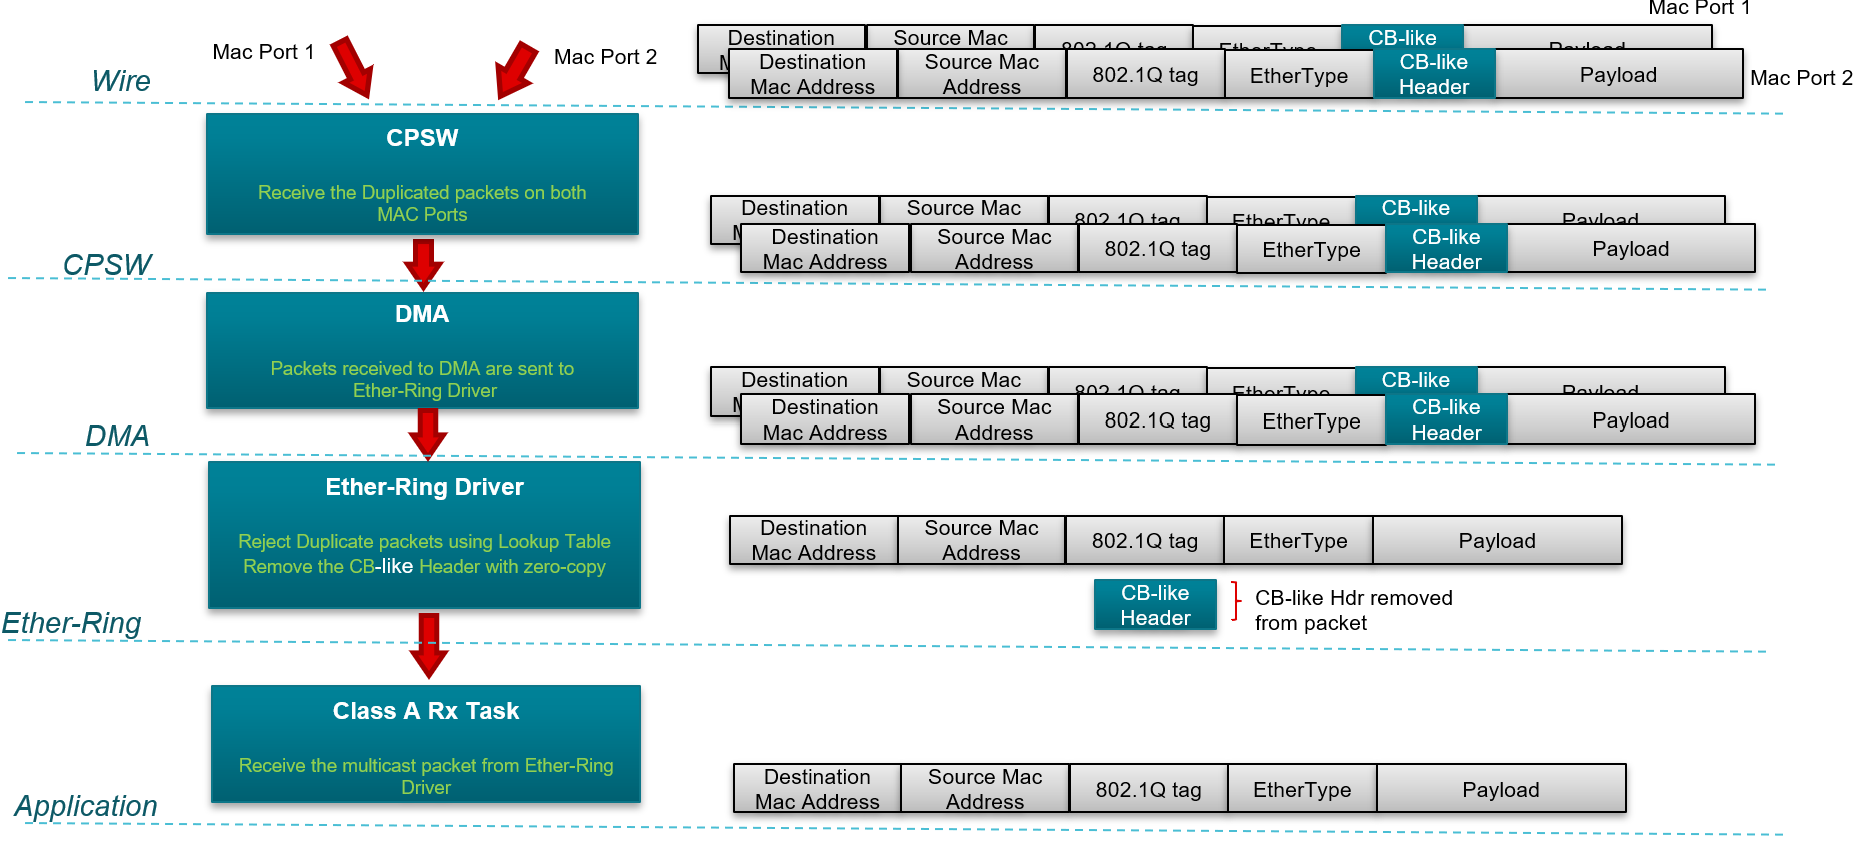
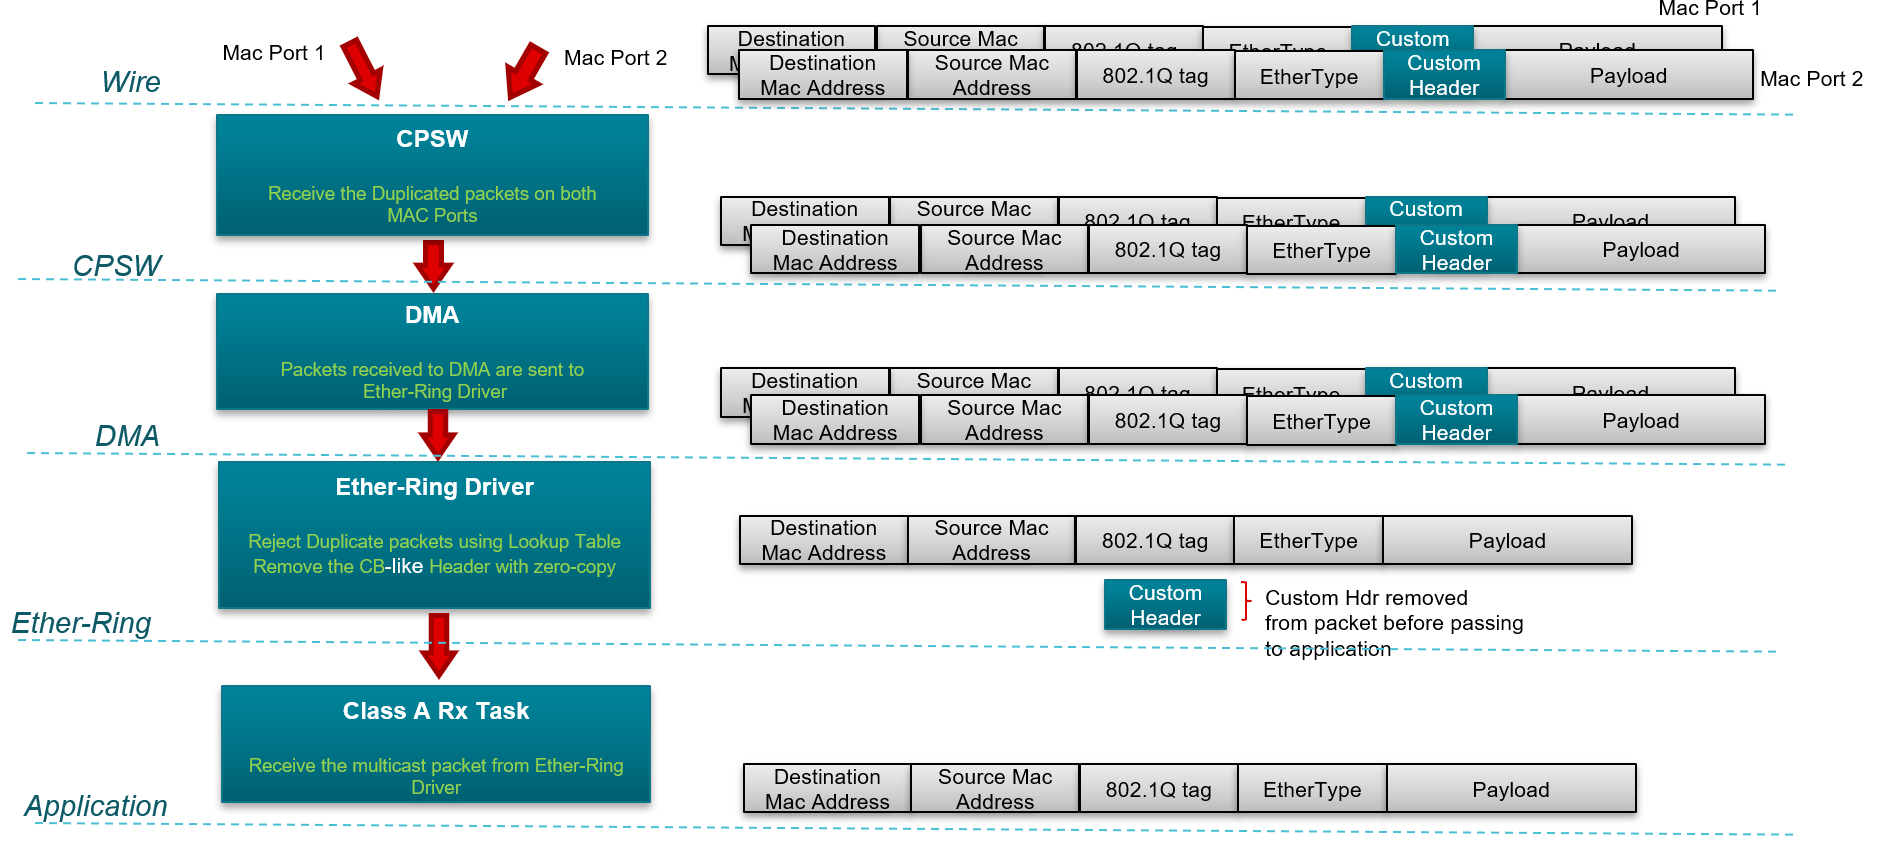
enet: am263x/am263px: Update Etherring rejection logic and example
- fix etherring duplication logic with window based rejection
- add genf ppm correction logic based on gptp corrections
- update etherring tsn example to integrate genf with est basetime

Fixes: MCUSDK-15494

diff --git a/source/networking/enet/soc/am261x/enet_soc_cfg.h b/source/networking/enet/soc/am261x/enet_soc_cfg.h
@@ -152,6 +152,11 @@ extern "C" {
 /*! \brief Number of CPSW ESTFn modules */
 #define ENET_CFG_CPSW_ESTF_NUM                      (CPSW_STATS_MACPORT_MAX)
 
+/*! \brief Number of CPSW GENn modules */
+#define ENET_CFG_CPSW_GENF_NUM                      (2U)
+
+/*! \brief Number of CPSW Hardware push events */
+#define ENET_CFG_CPSW_HWPUSH_NUM                    (8U)
 /* ========================================================================== */
 /*                         Structures and Enums                               */
 /* ========================================================================== */

diff --git a/source/networking/enet/soc/am263px/enet_soc_cfg.h b/source/networking/enet/soc/am263px/enet_soc_cfg.h
@@ -152,6 +152,11 @@ extern "C" {
 /*! \brief Number of CPSW ESTFn modules */
 #define ENET_CFG_CPSW_ESTF_NUM                      (CPSW_STATS_MACPORT_MAX)
 
+/*! \brief Number of CPSW GENn modules */
+#define ENET_CFG_CPSW_GENF_NUM                      (2U)
+
+/*! \brief Number of CPSW Hardware push events */
+#define ENET_CFG_CPSW_HWPUSH_NUM                    (8U)
 /* ========================================================================== */
 /*                         Structures and Enums                               */
 /* ========================================================================== */

diff --git a/source/networking/enet/soc/am263x/enet_soc_cfg.h b/source/networking/enet/soc/am263x/enet_soc_cfg.h
@@ -153,6 +153,11 @@ extern "C" {
 /*! \brief Number of CPSW ESTFn modules */
 #define ENET_CFG_CPSW_ESTF_NUM                      (CPSW_STATS_MACPORT_MAX)
 
+/*! \brief Number of CPSW GENn modules */
+#define ENET_CFG_CPSW_GENF_NUM                      (2U)
+
+/*! \brief Number of CPSW Hardware push events */
+#define ENET_CFG_CPSW_HWPUSH_NUM                    (8U)
 /* ========================================================================== */
 /*                         Structures and Enums                               */
 /* ========================================================================== */

diff --git a/source/networking/enet/soc/am273x/enet_soc_cfg.h b/source/networking/enet/soc/am273x/enet_soc_cfg.h
@@ -154,6 +154,11 @@ extern "C" {
 /*! \brief Number of CPSW ESTFn modules */
 #define ENET_CFG_CPSW_ESTF_NUM                      (CPSW_STATS_MACPORT_MAX)
 
+/*! \brief Number of CPSW GENn modules */
+#define ENET_CFG_CPSW_GENF_NUM                      (1U)
+
+/*! \brief Number of CPSW Hardware push events */
+#define ENET_CFG_CPSW_HWPUSH_NUM                    (8U)
 /* ========================================================================== */
 /*                         Structures and Enums                               */
 /* ========================================================================== */

diff --git a/source/networking/enet/soc/awr294x/enet_soc_cfg.h b/source/networking/enet/soc/awr294x/enet_soc_cfg.h
@@ -151,6 +151,11 @@ extern "C" {
 /*! \brief Number of CPSW ESTFn modules */
 #define ENET_CFG_CPSW_ESTF_NUM                      (CPSW_STATS_MACPORT_MAX)
 
+/*! \brief Number of CPSW GENn modules */
+#define ENET_CFG_CPSW_GENF_NUM                      (1U)
+
+/*! \brief Number of CPSW Hardware push events */
+#define ENET_CFG_CPSW_HWPUSH_NUM                    (8U)
 /* ========================================================================== */
 /*                         Structures and Enums                               */
 /* ========================================================================== */

diff --git a/source/networking/enet/soc/k3/am64x_am243x/enet_soc_cfg.h b/source/networking/enet/soc/k3/am64x_am243x/enet_soc_cfg.h
@@ -160,6 +160,11 @@ extern "C" {
 /*! \brief Number of CPSW ESTFn modules */
 #define ENET_CFG_CPSW_ESTF_NUM                      (CPSW_STATS_MACPORT_MAX)
 
+/*! \brief Number of CPSW GENn modules */
+#define ENET_CFG_CPSW_GENF_NUM                      (2U)
+
+/*! \brief Number of CPSW Hardware push events */
+#define ENET_CFG_CPSW_HWPUSH_NUM                    (8U)
 /* ========================================================================== */
 /*                         Structures and Enums                               */
 /* ========================================================================== */

diff --git a/source/networking/enet/hw_include/cpts/csl_cpts.c b/source/networking/enet/hw_include/cpts/csl_cpts.c
@@ -47,7 +47,7 @@
 #define CSL_CPTS_NUM_TS_GENF    (1U)
 #define CSL_CPTS_NUM_TS_ESTF    (1U)
 #elif defined(SOC_AM263X) || defined (SOC_AM263PX) || defined(SOC_AM261X)
-#define CSL_CPTS_NUM_TS_GENF    (1U)
+#define CSL_CPTS_NUM_TS_GENF    (2U)
 #define CSL_CPTS_NUM_TS_ESTF    (2U)
 #else
 #define CSL_CPTS_NUM_TS_GENF    (sizeof(pCptsRegs->TS_GENF) / sizeof(CSL_cptsRegs_TS_GENF))

diff --git a/docs_src/docs/api_guide/examples/networking/enet_cpsw_etherring.md b/docs_src/docs/api_guide/examples/networking/enet_cpsw_etherring.md
@@ -5,17 +5,15 @@
 # Introduction
 This example application illustrates the configuration and usage of Ether-Ring topology with 4 nodes connected in loop where each node works as central compute, zone left,
 zone right and zone tail.
-The example application enables both MAC ports by default and each node is connected to it's neighbouring node in a loop. This application uses Concurrence execution of gPTP IEEE 802.1AS stack and IEEE 802.1 Qbv (EST) configuration and Ether-ring (‘802.1CB-like’) to support Packet Duplication, Ring Termination in Hardware and Duplicate Rejection in Software.
+The example application enables both MAC ports by default and each node is connected to it's neighbouring node in a loop. This application uses Concurrence execution of gPTP IEEE 802.1AS stack and IEEE 802.1 Qbv (EST) configuration and Ether-ring to support Packet Duplication, Ring Termination in Hardware and Duplicate Rejection in Software.
 
 The example application opens two DMA TX channels and two DMA RX channels.  The TX0 and RX0 DMA channel will be used by the application to send the Class-A and Class-D stream packets via Ether-Ring Driver. The TX0 and RX0 DMA channel will be used for GPTP.
 
 The application will also open the both MAC port and will wait until the port gets
 link up with neighbouring node. The application waits for GPTP synchronization to happen and then applies the EST Schedule on both MAC ports. 
-
 The application uses \ref ENET_MOD_TAS API for EST configuration ,\ref ENET_CPSW_TSN_GPTP for gPTP and \ref ENET_DMA_API
-API for packet transmission.
 
-\note This application only provides the Etherring Functionality. But the Performance will be acheived in further releases.
+API for packet transmission.
 
 # Ether-Ring overview
 Please refer **[here](\ref ETHERRING_OVERVIEW)** for Ether-Ring overview
@@ -26,7 +24,7 @@ Typically, the application's parameters that a developer may want to change are:
 
 - **Number of Nodes**.  By default the example application configures the etherring for 4 Nodes,
 but the user can choose to update the number of nodes in etherring using
-  `MAX_NODES_IN_LOOP = 4` in `config.h`.
+  `NODES_COUNT_IN_ETHERRING = 4` in `config.h`.
 - **Number of Class A Streams**.  By default the number of Class A Streams are configured as 1 for each Node.
 User can update the configuration bye changes `NUM_CLASSA_STREAMS` in `config.h`.
 - **Class A Payload Length**.  Class A payload length is configured as 1000 be default and user can update
@@ -42,7 +40,7 @@ User can update the configuration bye changes `NUM_CLASSA_STREAMS` in `config.h`
 
 The Application creates Class-A, Class-D stream RTOS tasks which creates the 802.1Q Ethernet Multicast packet with 
 stream configuration and calls "EtherRing_submitTxPktQ" API from Ether-Ring Driver. "EtherRing_submitTxPktQ" creates a custom 
-802.1 CB-like header(4 bytes) which consists of CB-like Ethertype(0xF1C1), unique sequence ID for each Ethernet packet and adds the CB-like Header to the packet sent from application without modifying the payload using zero-copy (using Transmit Scatter-Gather feature of HW). The packet is submitted to DMA and CPSW duplicates the multicast packet and sent it to both MAC ports.
+Custom header(4 bytes) which consists of CB-like Ethertype(0x88B5), unique sequence ID for each Ethernet packet and adds the custom Header to the packet sent from application without modifying the payload using zero-copy (using Transmit Scatter-Gather feature of HW). The packet is submitted to DMA and CPSW duplicates the multicast packet and sent it to both MAC ports.
 
   \image html etherring_tx.png Ether-Ring Transmit Flow  width=60%
 
@@ -90,6 +88,77 @@ hostPortCfg->rxVlanRemapEn     = true;
 hostPortCfg->rxDscpIPv4RemapEn = true;
 hostPortCfg->rxDscpIPv6RemapEn = true;
 \endcode
+
+## Application Startup Flow - EST, GENF, and Traffic Generation
+
+The application follows a coordinated startup sequence using GPTP synchronization, EST scheduling, and hardware pulse generation:
+
+### Phase 1: Initialization & GPTP Synchronization
+All nodes initialize networking stack and wait for GPTP (802.1AS) clock synchronization:
+- GPTP daemon exchanges timing messages across ring topology
+- Nodes transition through states: INITIALIZING → SYNCING → LOCKED
+- Once synchronized, all nodes share common wall-clock time reference
+
+### Phase 2: EST Gate Scheduling (gBaseTime Reference)
+After GPTP reaches LOCKED state, the EST schedule is applied:
+- EST gate control lists applied on both CPSW MAC ports
+- Gates scheduled starting at `gBaseTime` (default: 30,000,000,000 ns = 30 seconds)
+- Gate windows define when each priority queue (Class A, Class D, Best Effort) can transmit
+- All nodes' gates open/close at same wall-clock time due to GPTP synchronization
+- See EST schedule table above for gate mask timing (125μs intervals)
+
+### Phase 3: GENF0 Enable (Immediate)
+- GENF0 (General Function 0) configured for 50MHz reference pulse (4 clocks = 80ns)
+- Starts immediately after EST configuration
+- Provides general timing reference used by EST for gate transition synchronization
+
+### Phase 4: GENF1 Enable (gBaseTime - 20μs)
+- GENF1 (General Function 1) configured for 125μs pulse interval (25000*2 clocks)
+- **Starts 20 microseconds BEFORE gBaseTime** to pre-trigger traffic generation
+- **Reason**: Allows packet preparation and transmission to complete before EST gate closes
+- Ensures packets meet scheduled transmission deadline and gate window efficiency
+- Generates periodic pulses that trigger stream task wake-ups
+
+### Phase 5: RTI Timer & Periodic Traffic Generation
+- Real-Time Interrupt (RTI) timer created with GENF1 pulse as clock source
+- GENF1 interrupt fires every 125μs → wakes stream generation tasks
+- Stream tasks for each enabled stream:
+  - Allocate packets from free queue
+  - Fill packet with StreamId (sequence number at offset 30 bytes) + payload
+  - Submit to CPSW TX queue (respects EST gate status)
+  - **Class A streams**: up to 1000 packets per test cycle
+  - **Class D streams**: up to 125 packets per test cycle (lower priority, reduced load)
+
+### Phase 6: RX Processing & EtherRing Duplicate Detection
+- RX task collects arriving packets from network
+- EtherRing module performs sequence-based duplicate detection:
+  - Tracks StreamId (sequence number) in 64-packet sliding window per stream
+  - **Rejects exact duplicates** from ring redundancy artifacts
+  - **Accepts out-of-order packets** within history window
+- RX timestamps stored for jitter and latency analysis
+- Final output prints RX/TX packet counts and latency statistics
+
+### Application Startup Sequence
+
+<CENTER>
+<table>
+<caption>Startup Phase Timeline</caption>
+<tr><th>Phase <th>Timing <th>Event Description
+<tr><td>1 <td>t=0 <td>GPTP Synchronization begins
+<tr><td>1 <td>t=~3s <td>GPTP reaches LOCKED state (all nodes synchronized)
+<tr><td>2 <td>t=~5s <td>EST gate control lists applied to both MAC ports
+<tr><td>2 <td>t=~5s <td>EST schedule reference set to gBaseTime (30,000,000,000 ns)
+<tr><td>3 <td>t=~5s <td>GENF0 enabled (50MHz, immediate operation)
+<tr><td>4 <td>t=(gBaseTime - 20μs) <td>GENF1 enabled (125μs pulse interval begins)
+<tr><td>4 <td>t=(gBaseTime - 20μs) <td>RTI Timer created with GENF1 as clock source
+<tr><td>5 <td>t=(gBaseTime - 20μs) <td>Stream TX tasks begin execution
+<tr><td>5 <td>t=gBaseTime <td>EST gates OPEN for Class A and Class D queues
+<tr><td>5 <td>t=gBaseTime + 20μs <td>Packets transmitted within EST gate window
+<tr><td>5 <td>t=(gBaseTime + interval) <td>EST gates CLOSE, packets complete transmission
+<tr><td>6 <td>Continuous <td>RX task receives packets and performs EtherRing deduplication
+<tr><td>6 <td>Continuous <td>Timestamps logged for latency and jitter analysis
+</table>
+</CENTER>
 
 ## RX Host Time stamping
 RX Host time stamping is enabled from syscfg to measure the jitter in latency for the Received packets and 
@@ -366,6 +435,8 @@ INF:cbase:Successfully configure TAS
 WRN:gptp:000018-746101:md_pdelay_resp_sm_recv_req: port=2, expected SeqID=10723, but received=10724
 Starting the Stream Traffic
 RxTs and CurrentTs values stored
+
+----------ETHERRING DEMONSTRATION COMPLETED----------
 [RXTS]: 29954385101
 [RXTS]: 29954510117
 [RXTS]: 29954635123
@@ -381,18 +452,22 @@ RxTs and CurrentTs values stored
 [RXTS]: 29955885143
 [RXTS]: 29956010069
 [RXTS]: 29956135075
-[RXTS]: 29956260086
-[RXTS]: 29956385097
-[RXTS]: 29956510113
-[RXTS]: 29956635119
-[RXTS]: 29956760130
-[RXTS]: 29956885126
-[RXTS]: 29957010072
-[RXTS]: 29957135078
-
-
-
-----------ETHERRING DEMONSTRATION COMPLETED----------
+[LAT]: 31248385523
+[LAT]: 31248509968
+[LAT]: 31248635684
+[LAT]: 31248760014
+[LAT]: 31248885115
+[LAT]: 31249010280
+[LAT]: 31249185376
+[LAT]: 31249260041
+[LAT]: 31249385041
+[LAT]: 31249510402
+[LAT]: 31249675958
+[LAT]: 31249759993
+[LAT]: 31249885083
+[LAT]: 31250010974
+[RX] Packet Count of stream0: 30000 
+[TX] Packet Count of stream0: 30000 
 
 
 \endcode

diff --git a/docs_src/docs/api_guide/components/networking/enet_lld/etherring_overview.md b/docs_src/docs/api_guide/components/networking/enet_lld/etherring_overview.md
@@ -69,14 +69,23 @@ Ether-Ring functionality is achieved using hardware configuration with assistanc
 <div style="display: flex; align-items: center;">
     <div style="flex: 1; text-align: left; max-width: 65%;">
         <ul>
-            <li><strong>Custom Header Data</strong>: Ethernet packets contain custom header data to facilitate duplicate rejection.</li>
-            <li><strong>Look-up Table</strong>: The look-up table stores key with tuples of {Source Mac Address ,Sequence Number} and Entries denoting the count of packet received.</li>
-            <li><strong>Duplicate Rejection</strong>: Duplicate packets are rejected using look-up table Entries.</li>
-            <li><strong>Periodic Look-up table clearance</strong>: Look-up table entries are periodically cleared to receive original Ethernet packets in case of single point wire failure.</li>
+            <li><strong>Packet Detection Flow</strong>: SequenceID-based duplicate detection using per-node state tracking. Each node maintains last accepted sequence number and 64-bit history bitmap.</li>
+            <li><strong>Per-node State</strong>: Tracks recSeqNum (last accepted sequence), seqHistory (64-bit bitmap), and initialization flag for each data stream identified by MAC address.</li>
+            <li><strong>Five Detection Cases</strong>:
+                <ol>
+                    <li>In-Order/Future Packet (seqDiff > 0) - Accept and shift window forward</li>
+                    <li>Out-of-Order Within Window (seqDiff < 0) - Check bitmap for prior receipt</li>
+                    <li>Too Old/Beyond Window - Reject as stale duplicate</li>
+                    <li>Exact Duplicate (seqDiff = 0) - Reject immediate duplicate</li>
+                    <li>Large Forward Gap - Reject as potential desynchronization</li>
+                </ol>
+            </li>
+            <li><strong>Wraparound Handling</strong>: 8-bit sequence numbers wrap at 256 with signed arithmetic boundary adjustment.</li>
+            <li><strong>Statistics Tracking</strong>: Maintains counts for original packets, duplicates rejected, and out-of-order packets accepted.</li>
         </ul>
     </div>
     <div style="flex: 1; text-align: right; max-width: 75%;">
-        <img src="etherring_duplicate_rejection.png" alt="CAN to Ethernet" style="width: 90%;">
+        <img src="etherring_pkt_detection_flow.png" alt="Packet Detection Flow" style="width: 110%;">
     </div>
 </div>
 
